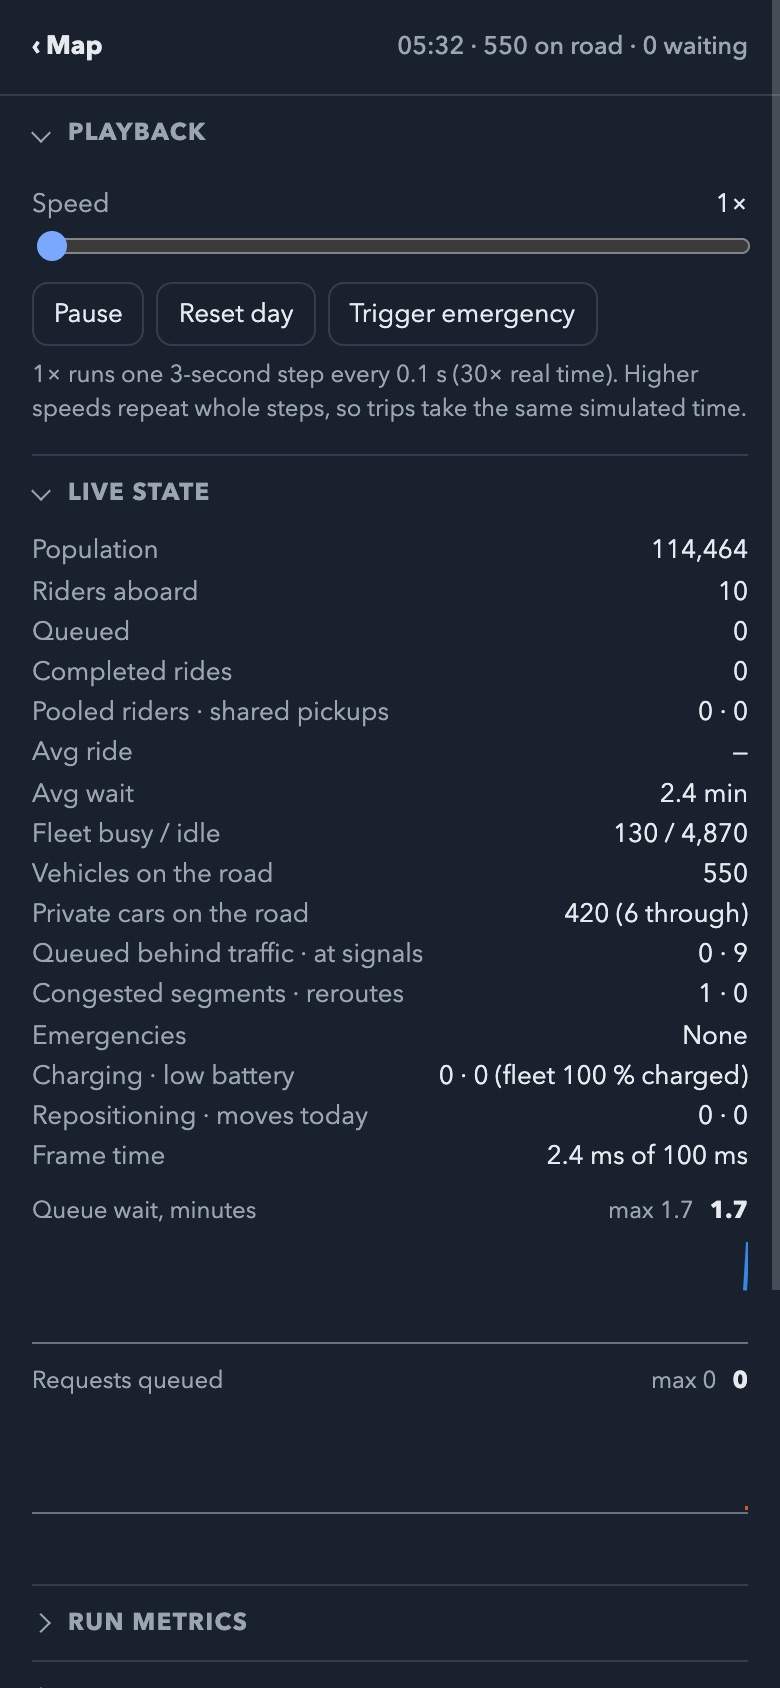
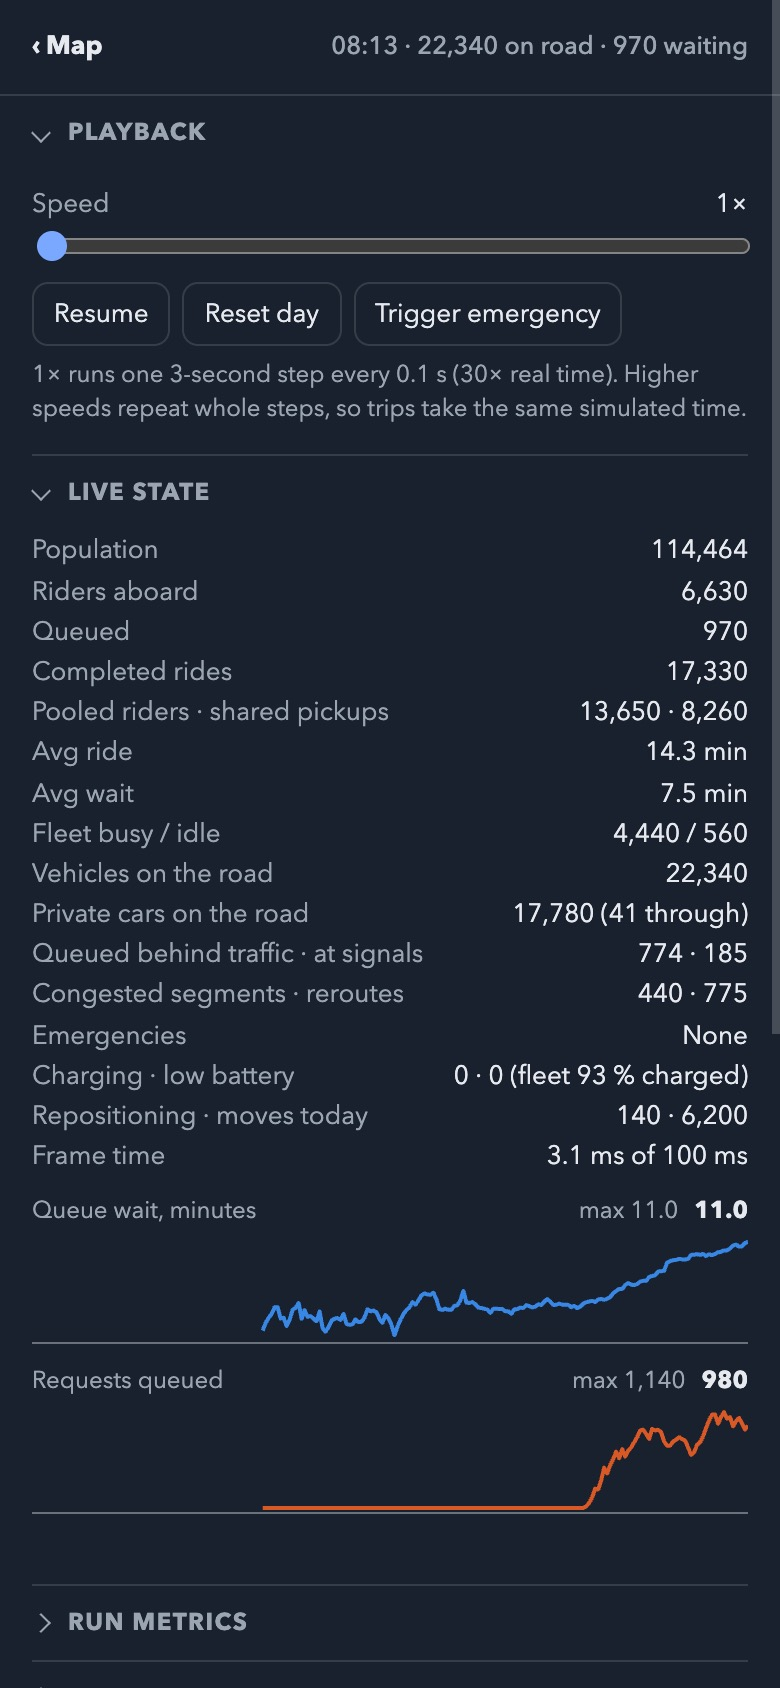
README: fresh phone screenshots at the morning peak
Both phone shots are retaken at 08:13 on a Wednesday (the default Twins
game day): the map zoomed into downtown with the congestion layer and the
Stats & controls tab, and the panel page with live state and the wait
and queue charts filled in. The previous pair was taken at 05:32, before
any traffic, with the map shown small.

diff --git a/README.md b/README.md
@@ -80,7 +80,7 @@ swipe it right or tap **‹ Map** to go back; a slow drag still pans the map):
   empty share, occupancy, utilisation, wait and ride percentiles) with CSV downloads, the
   **Chokepoints** (river bridges, freeway ramps, map-edge entries) and an event log.
 
-<img src="docs/img/phone.jpg" width="260" alt="The simulation on a phone in dark mode: the map fills the screen, with a Stats and controls tab on the right edge"> <img src="docs/img/phone-panel.jpg" width="260" alt="The panel page on a phone after swiping left: playback and live state, scrolling up and down, with a Map button at the top">
+<img src="docs/img/phone.jpg" width="260" alt="The simulation on a phone at 08:13 on a Wednesday, zoomed into downtown: congested streets in red and orange, the Stats and controls tab on the right edge"> <img src="docs/img/phone-panel.jpg" width="260" alt="The panel page after swiping left: playback, then live state with 22,340 vehicles on the road and 970 riders waiting, and the wait and queue charts">
 
 `viewer.html` is the street map on its own: tap a street for its speed, lanes, direction and
 OSM way, or **Plan a route** to compare the fastest car route with the fastest shuttle route.
